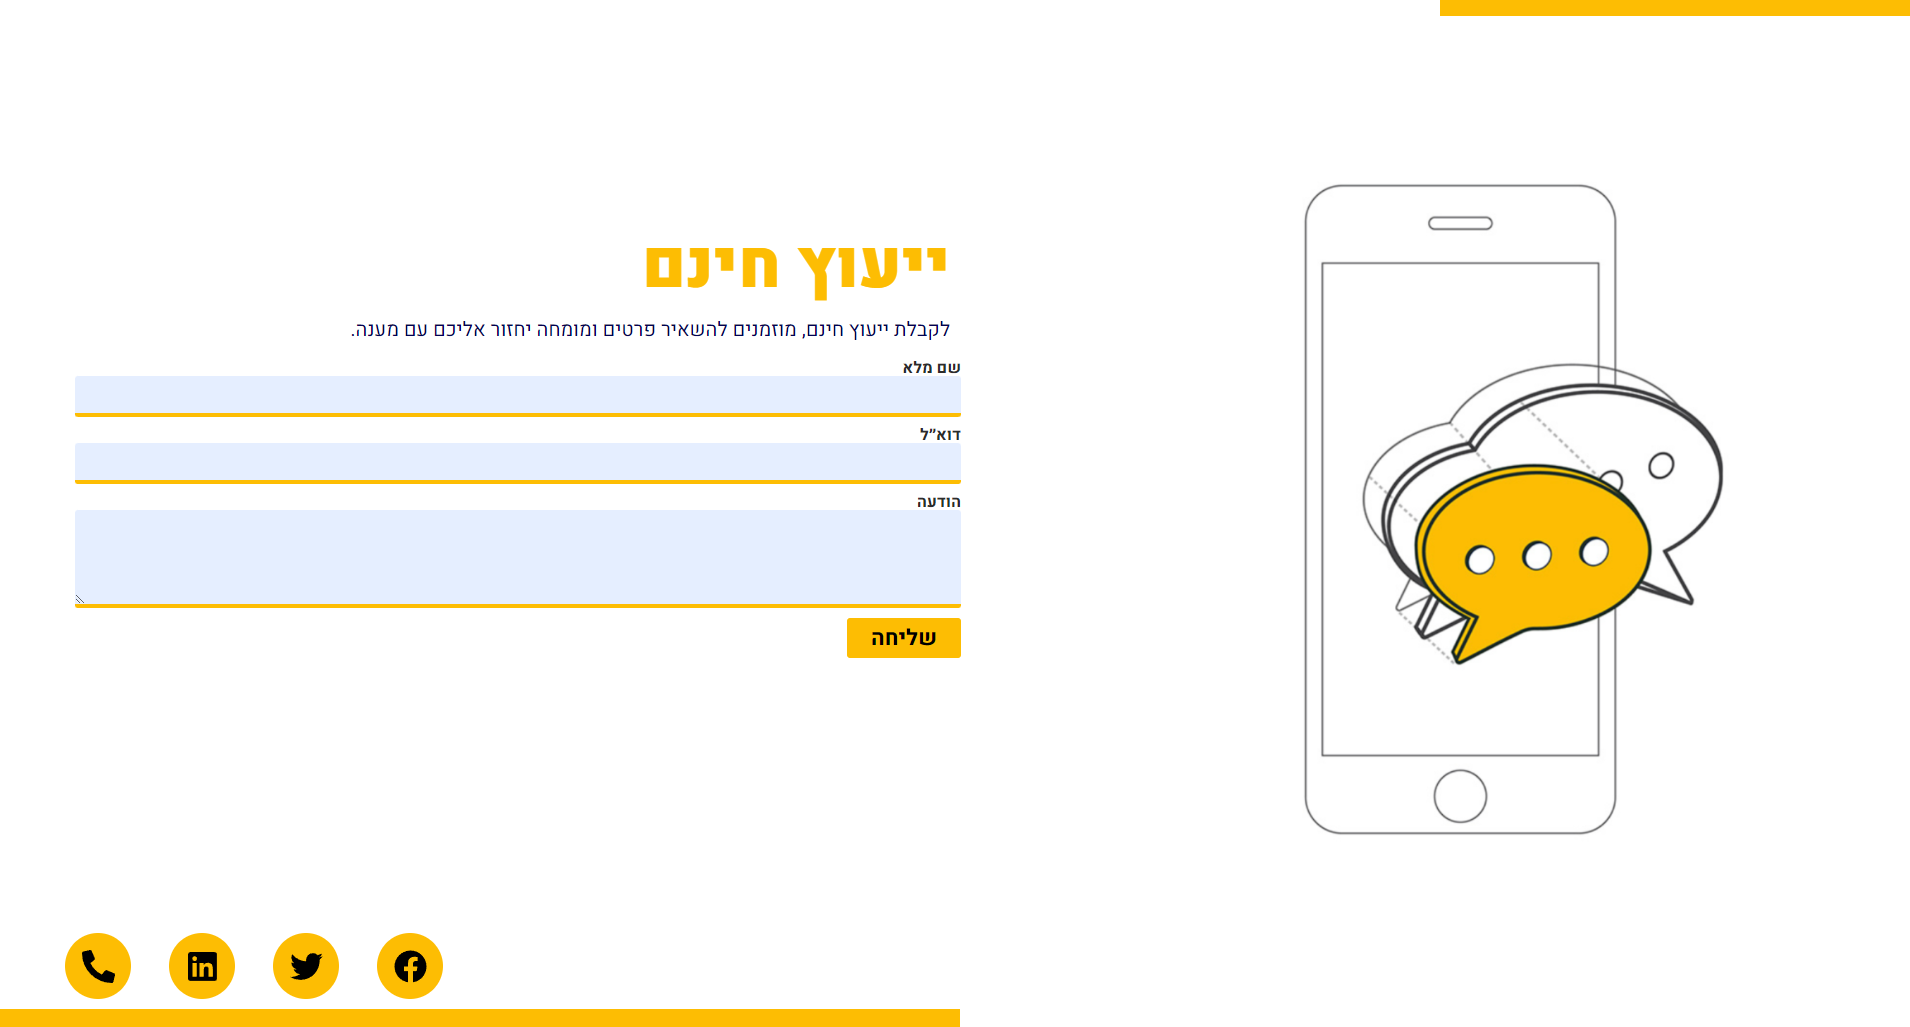
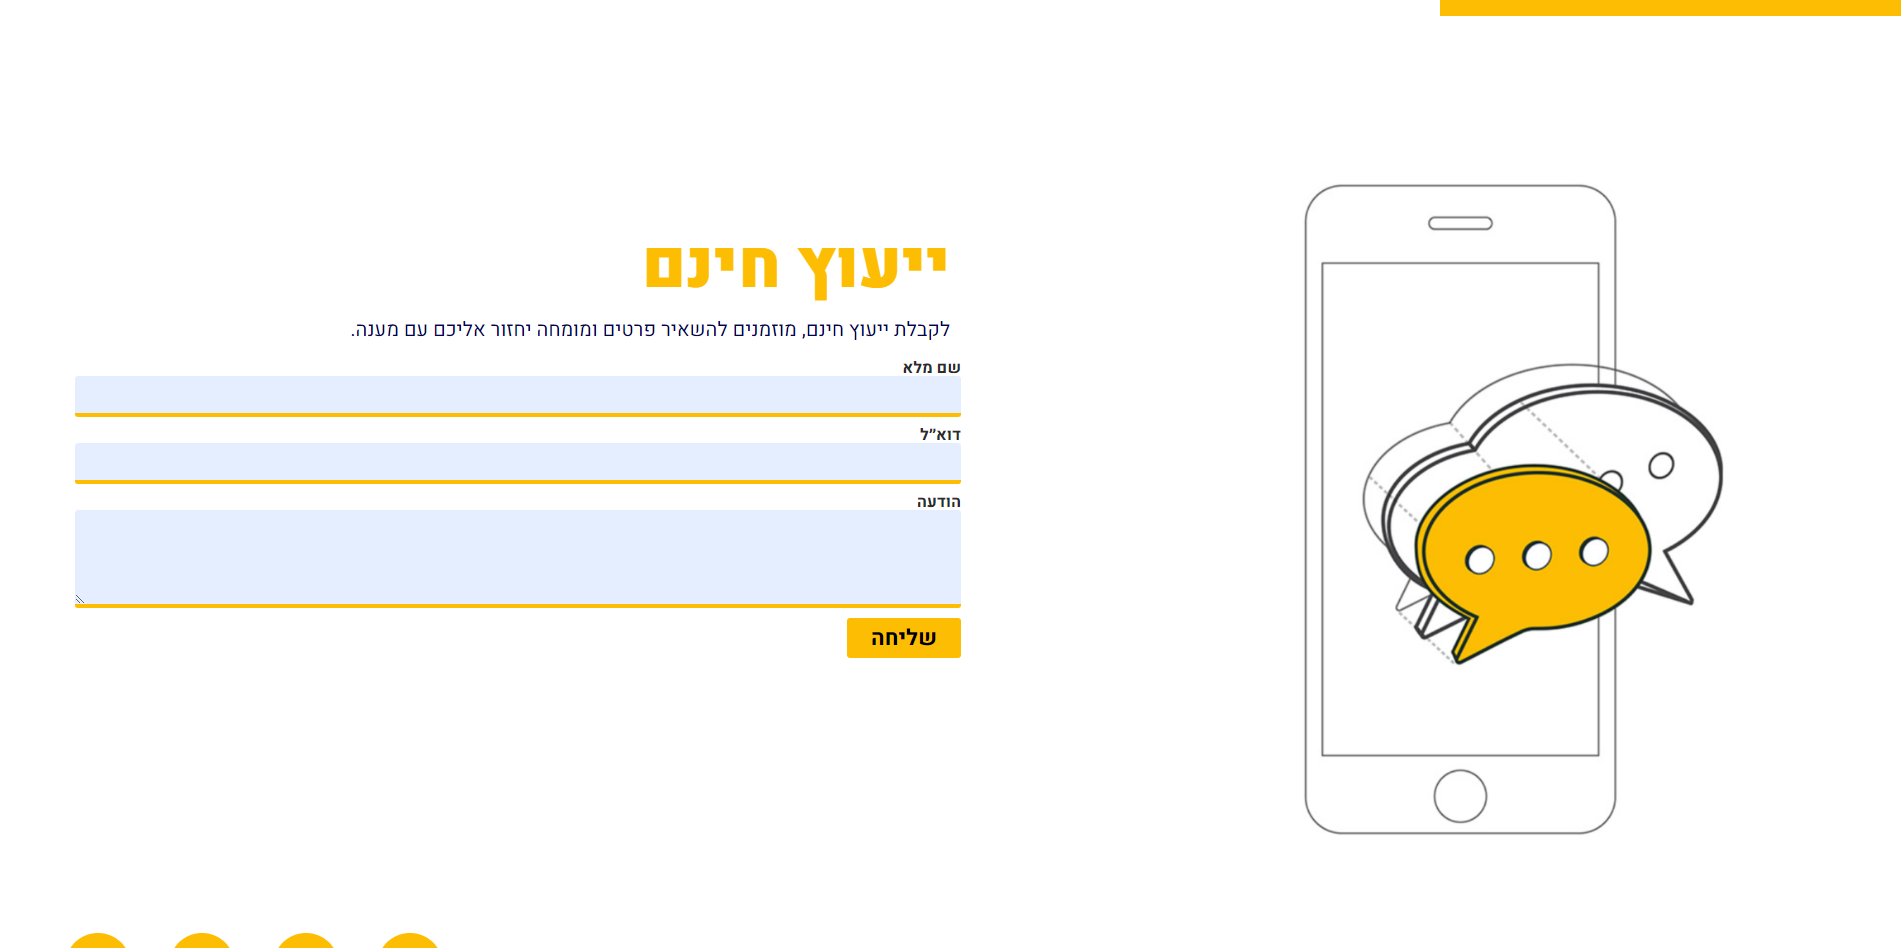
portfolio em

diff --git a/style/_nav.scss b/style/_nav.scss
@@ -15,7 +15,7 @@
     font-size: 1.2em;
     color: black;
     font-weight: bold;
-    padding: 5px;
+    padding: 0.3125em;
     display: none;
     width: $width;
 }
@@ -30,7 +30,7 @@ nav ul {
 
 nav ul li a {
     text-decoration: none;
-    width: 150px;
+    width: 9.375em;
     color: #000;
     display: block;
     text-align: center;
@@ -42,13 +42,13 @@ nav ul li a:hover {
 }
 
 .navIcon {
-    width: 62px;
-    height: 62px;
+    width: 3.875em;
+    height: 3.875em;
 }
 
 .navPh {
-    width: 79px;
-    height: 35px;
+    width: 4.9375em;
+    height: 2.1875em;
 
 }
 
@@ -64,15 +64,15 @@ nav ul li a:hover {
 
 
     nav ul {
-        width: 100%;
+        width: $width;
         flex-direction: column;
     }
 
 
     nav ul li a {
         background-color: var(--bgc);
-        width: 300px;
-        border-bottom: 1px solid yellow;
+        width: 18.75em;
+        border-bottom: 0.0625em solid yellow;
         text-align: left;
     }
 

diff --git a/style/_footercontactUs.scss b/style/_footercontactUs.scss
@@ -28,14 +28,14 @@ form {
     flex-direction: column;
     align-items: left;
     justify-content: left;
-    padding: 20px;
-    margin: 40px;
+    padding: 1.25em;
+    margin: 2.5em;
     height: 37%;
     width: 28.5%;
 
     input[type="text"] {
-        padding: 10px;
-        margin: 5px 0;
+        padding: 0.625em;
+        margin: 0.1325em 0;
         font-size: 1em;
         color: var(--colo);
         height: 6vh;
@@ -43,14 +43,14 @@ form {
     }
 
     input[ id="message"] {
-        height: 100px;
+        height: 6.25em;
     }
 
     input[type="submit"] {
-        width: 166px;
-        height: 50px;
+        width: 10.375;
+        height: 3.125em;
         background-color: var(--bgc);
-        border-radius: 25px;
+        border-radius: 1.5625em;
     }
 
     label {

diff --git a/style/_socialMedia.scss b/style/_socialMedia.scss
@@ -3,11 +3,11 @@
     justify-content: space-evenly;
     align-items: center;
     flex-wrap: wrap;
-    height: 200.33px;
+    height: 12.5206em;
     background-color: var(--bgc);
     width: $width;
     text-align: center;
-    padding: 10px;
+    padding: 0.625em;
 
     img {
         width: 1.51%;

diff --git a/style/_setup.scss b/style/_setup.scss
@@ -28,11 +28,11 @@ a {
 
 .card {
     height: 26%;
-    margin: 5px;
+    margin: 0.1325em;
 }
 
 @mixin bTn {
-    border-radius: 25px;
+    border-radius: 1.5625em;
     text-decoration: none;
     line-height: 1;
     opacity: 1;

diff --git a/style/_copyRights.scss b/style/_copyRights.scss
@@ -5,7 +5,7 @@
     color: var(--colo);
     width: $width;
     height: 4.7%;
-    padding: 10px;
+    padding: 0.625em;
     justify-content: flex-start;
     justify-content: space-between;
 }

diff --git a/style/_projects.scss b/style/_projects.scss
@@ -16,6 +16,6 @@
 
 .btn {
     @include bTn;
-    width: 250px;
-    height: 30px;
+    width: 15.625em;
+    height: 1.875em;
 }
